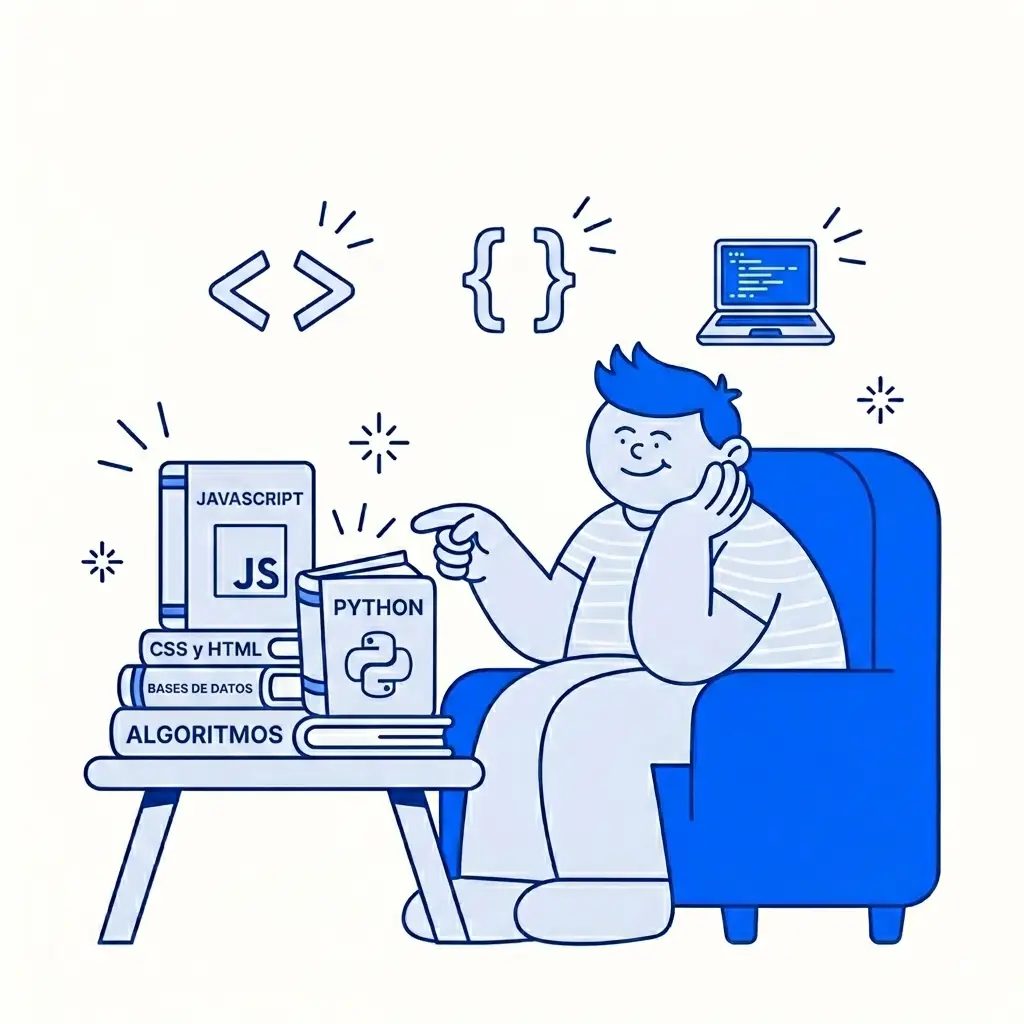
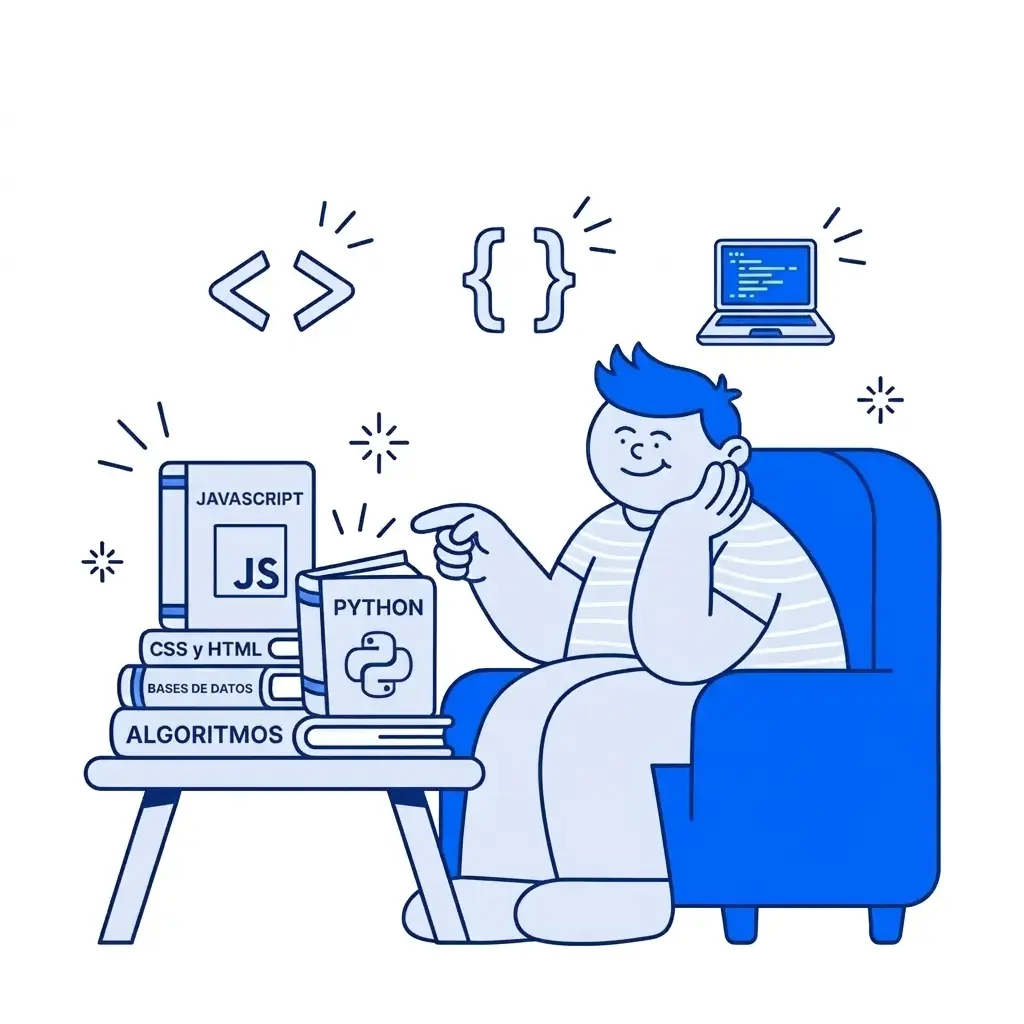
new25

Changed region(s): [[0.4375, 0.5, 0.4688, 0.5312], [0.375, 0.7188, 0.4062, 0.75]]

diff --git a/resources/views/welcome.blade.php b/resources/views/welcome.blade.php
@@ -57,21 +57,6 @@
                     Capacita a tu equipo con cursos especializados en las tecnologías más demandadas del mercado.
                 </p>
 
-                <div class="flex flex-col gap-3 mb-8 sm:mb-12">
-                    <a href="#cursos-empresas" class="inline-flex items-center justify-center bg-transparent text-blue-600 px-6 py-3 rounded-full text-sm sm:text-base font-medium border-2 border-blue-600 hover:bg-blue-50 transition-all duration-200">
-                        Para empresas
-                        <svg class="w-4 h-4 ml-2" fill="none" stroke="currentColor" viewBox="0 0 24 24">
-                            <path stroke-linecap="round" stroke-linejoin="round" stroke-width="2" d="M9 5l7 7-7 7"></path>
-                        </svg>
-                    </a>
-                    <a href="#cursos-individuales" class="inline-flex items-center justify-center bg-transparent text-blue-600 px-6 py-3 rounded-full text-sm sm:text-base font-medium border-2 border-blue-600 hover:bg-blue-50 transition-all duration-200">
-                        Para individuos
-                        <svg class="w-4 h-4 ml-2" fill="none" stroke="currentColor" viewBox="0 0 24 24">
-                            <path stroke-linecap="round" stroke-linejoin="round" stroke-width="2" d="M9 5l7 7-7 7"></path>
-                        </svg>
-                    </a>
-                </div>
-
                 <div class="flex justify-center">
                     <img src="{{ asset('image/clases1.webp') }}" alt="Cursos de programación" class="w-full max-w-sm h-auto object-contain">
                 </div>
@@ -85,21 +70,6 @@
                 <p class="text-gray-600 text-sm sm:text-base mb-8 sm:mb-12">
                     Obtén un desarrollo web profesional con tecnologías modernas y diseño personalizado para tu empresa.
                 </p>
-
-                <div class="flex flex-col gap-3 mb-8 sm:mb-12">
-                    <a href="#cotizar" class="inline-flex items-center justify-center bg-transparent text-blue-600 px-6 py-3 rounded-full text-sm sm:text-base font-medium border-2 border-blue-600 hover:bg-blue-50 transition-all duration-200">
-                        Cotizar proyecto
-                        <svg class="w-4 h-4 ml-2" fill="none" stroke="currentColor" viewBox="0 0 24 24">
-                            <path stroke-linecap="round" stroke-linejoin="round" stroke-width="2" d="M9 5l7 7-7 7"></path>
-                        </svg>
-                    </a>
-                    <a href="#portafolio" class="inline-flex items-center justify-center bg-transparent text-blue-600 px-6 py-3 rounded-full text-sm sm:text-base font-medium border-2 border-blue-600 hover:bg-blue-50 transition-all duration-200">
-                        Ver portafolio
-                        <svg class="w-4 h-4 ml-2" fill="none" stroke="currentColor" viewBox="0 0 24 24">
-                            <path stroke-linecap="round" stroke-linejoin="round" stroke-width="2" d="M9 5l7 7-7 7"></path>
-                        </svg>
-                    </a>
-                </div>
 
                 <div class="flex justify-center">
                     <img src="{{ asset('image/desarrollo2.webp') }}" alt="Desarrollo web" class="w-full max-w-sm h-auto object-contain">